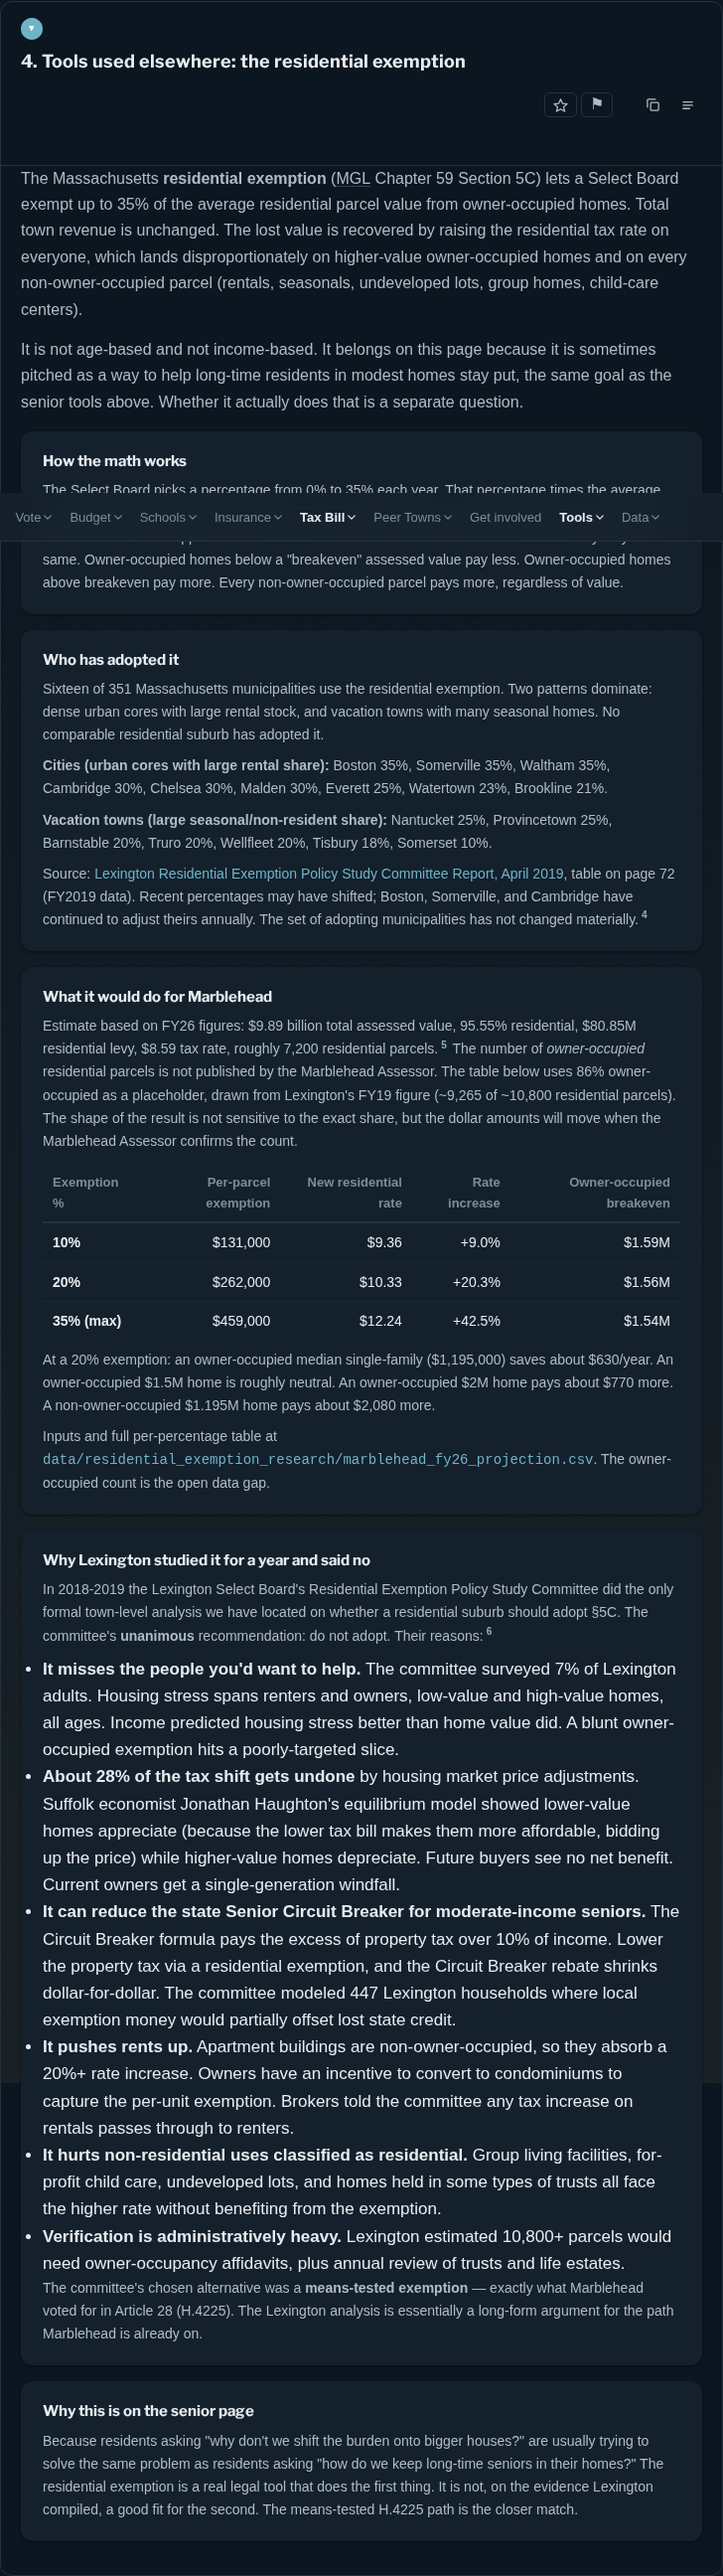
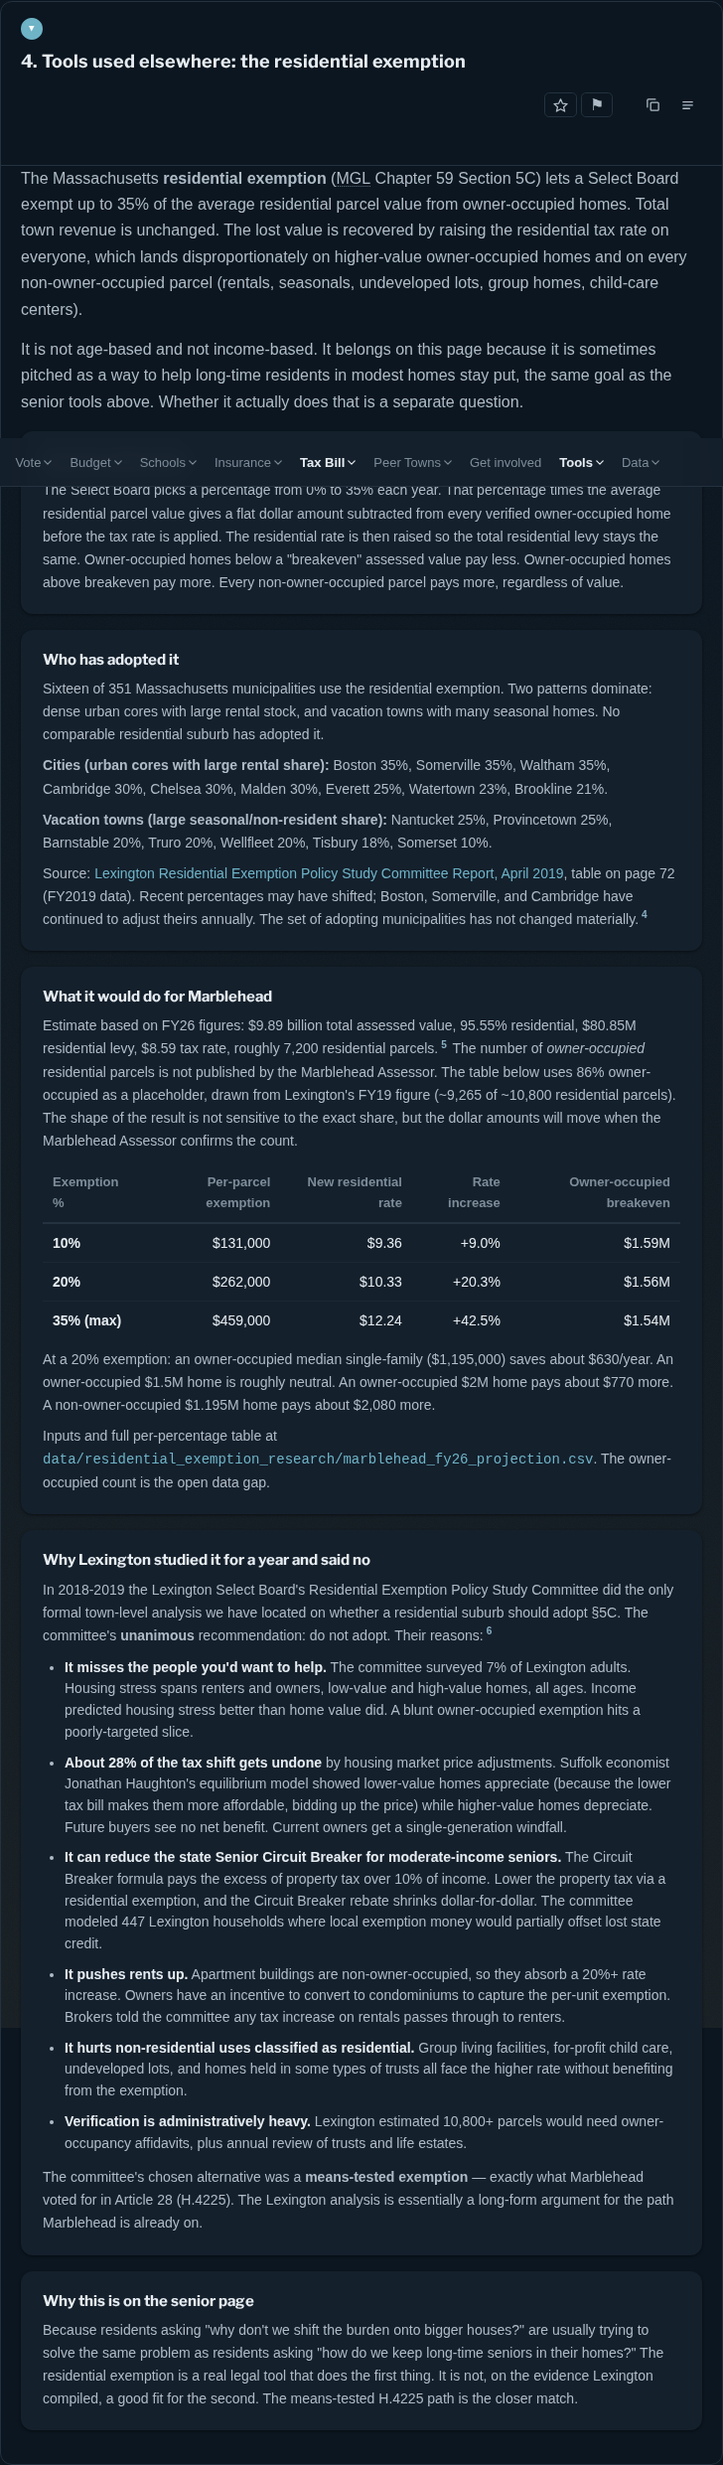
Style residential-exemption Lexington bullets to match card paragraph aesthetic
Default <ul> rendered larger and brighter than the card's <p> text,
visually leaving the bullets unstyled. Adds page-scoped .card-list
class to match the 0.875rem muted-text card paragraph style with
proper indent and inter-item spacing.

diff --git a/senior-tax-relief.html b/senior-tax-relief.html
@@ -298,6 +298,15 @@ og_url: https://marbleheaddata.org/senior-tax-relief.html
     .sr-line { font-size: 13px; }
     .sr-line--total .sr-line-value { font-size: 18px; }
   }
+  /* Page-scoped: residential exemption section bullet list */
+  .deep-dive-body .card ul.card-list {
+    font-size: 0.875rem; color: var(--text-muted);
+    padding-left: 22px; margin: 10px 0 12px;
+    line-height: 1.55;
+  }
+  .deep-dive-body .card ul.card-list li { margin-bottom: 9px; }
+  .deep-dive-body .card ul.card-list li:last-child { margin-bottom: 0; }
+  .deep-dive-body .card ul.card-list li strong { color: var(--text); }
   /* Page-scoped: residential exemption projection table */
   table.data-table {
     width: 100%; border-collapse: collapse;
@@ -747,7 +756,7 @@ og_url: https://marbleheaddata.org/senior-tax-relief.html
   <div class="card">
     <h3>Why Lexington studied it for a year and said no</h3>
     <p>In 2018-2019 the Lexington Select Board's Residential Exemption Policy Study Committee did the only formal town-level analysis we have located on whether a residential suburb should adopt §5C. The committee's <strong>unanimous</strong> recommendation: do not adopt. Their reasons:<sup class="cite" data-href="https://www.lexingtonma.gov/DocumentCenter/View/2056/2019-Residential-Exemption-Committee-Report-PDF" data-source="Lexington Residential Exemption Policy Study Committee, &quot;An Examination of Residential Property Tax Exemptions for the Town of Lexington, Massachusetts&quot; (April 2019), V1.0. Committee: Andersen (chair), Blier, Bothwell Allen, Cloth, Cutler, Whelan, Zhao. Recommendation 1: Do not adopt the Massachusetts Residential Exemption."></sup></p>
-    <ul>
+    <ul class="card-list">
       <li><strong>It misses the people you'd want to help.</strong> The committee surveyed 7% of Lexington adults. Housing stress spans renters and owners, low-value and high-value homes, all ages. Income predicted housing stress better than home value did. A blunt owner-occupied exemption hits a poorly-targeted slice.</li>
       <li><strong>About 28% of the tax shift gets undone</strong> by housing market price adjustments. Suffolk economist Jonathan Haughton's equilibrium model showed lower-value homes appreciate (because the lower tax bill makes them more affordable, bidding up the price) while higher-value homes depreciate. Future buyers see no net benefit. Current owners get a single-generation windfall.</li>
       <li><strong>It can reduce the state Senior Circuit Breaker for moderate-income seniors.</strong> The Circuit Breaker formula pays the excess of property tax over 10% of income. Lower the property tax via a residential exemption, and the Circuit Breaker rebate shrinks dollar-for-dollar. The committee modeled 447 Lexington households where local exemption money would partially offset lost state credit.</li>
